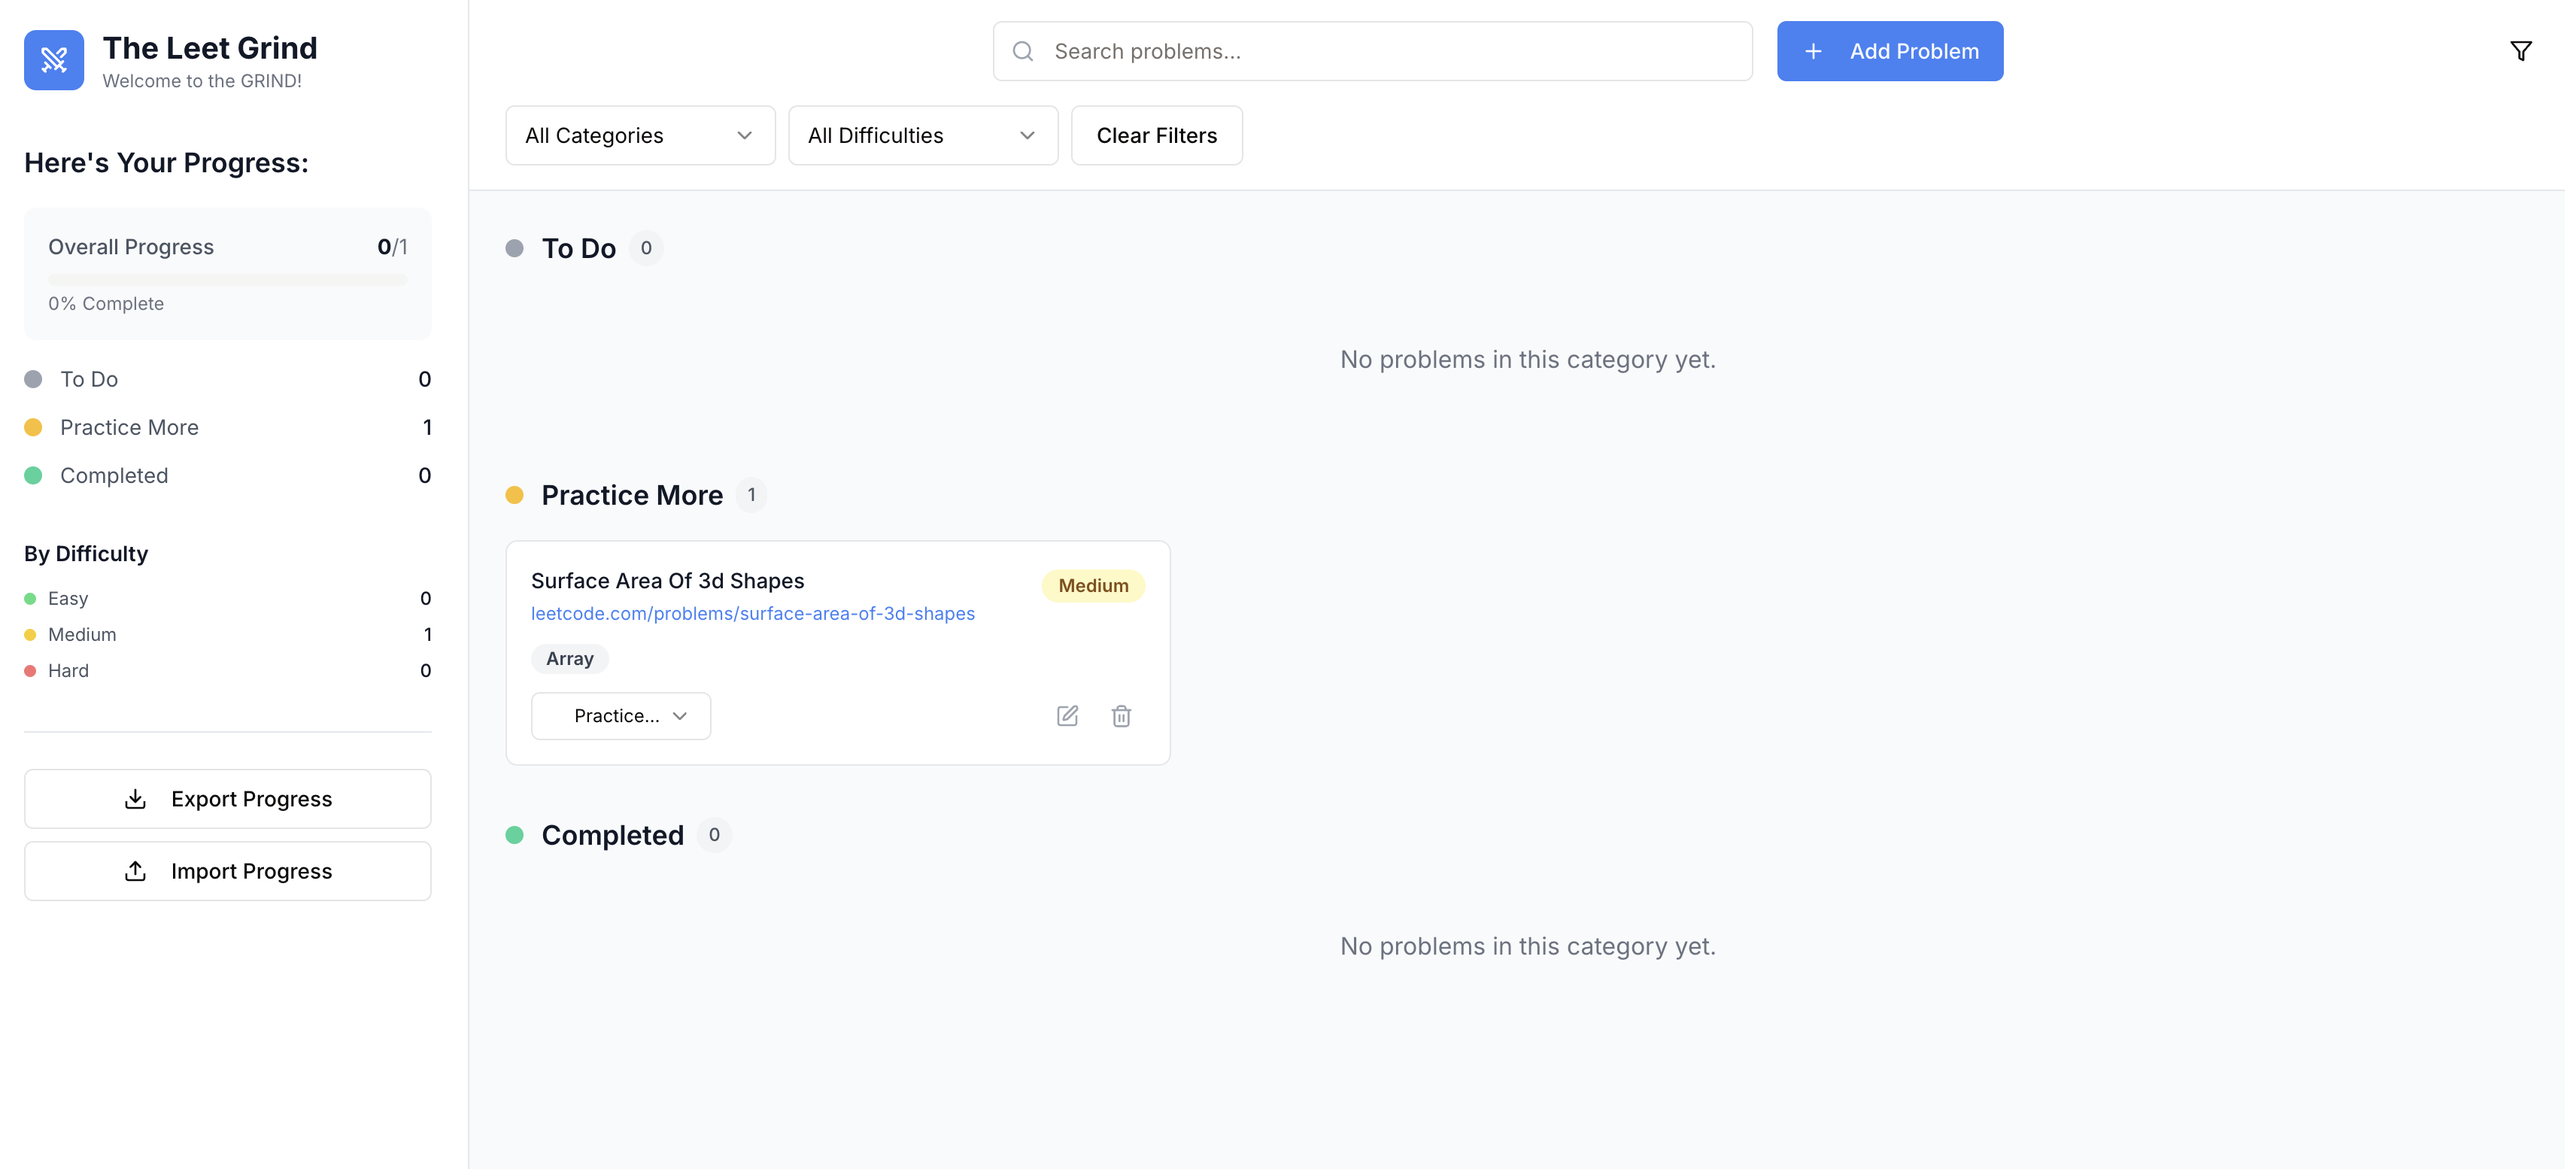
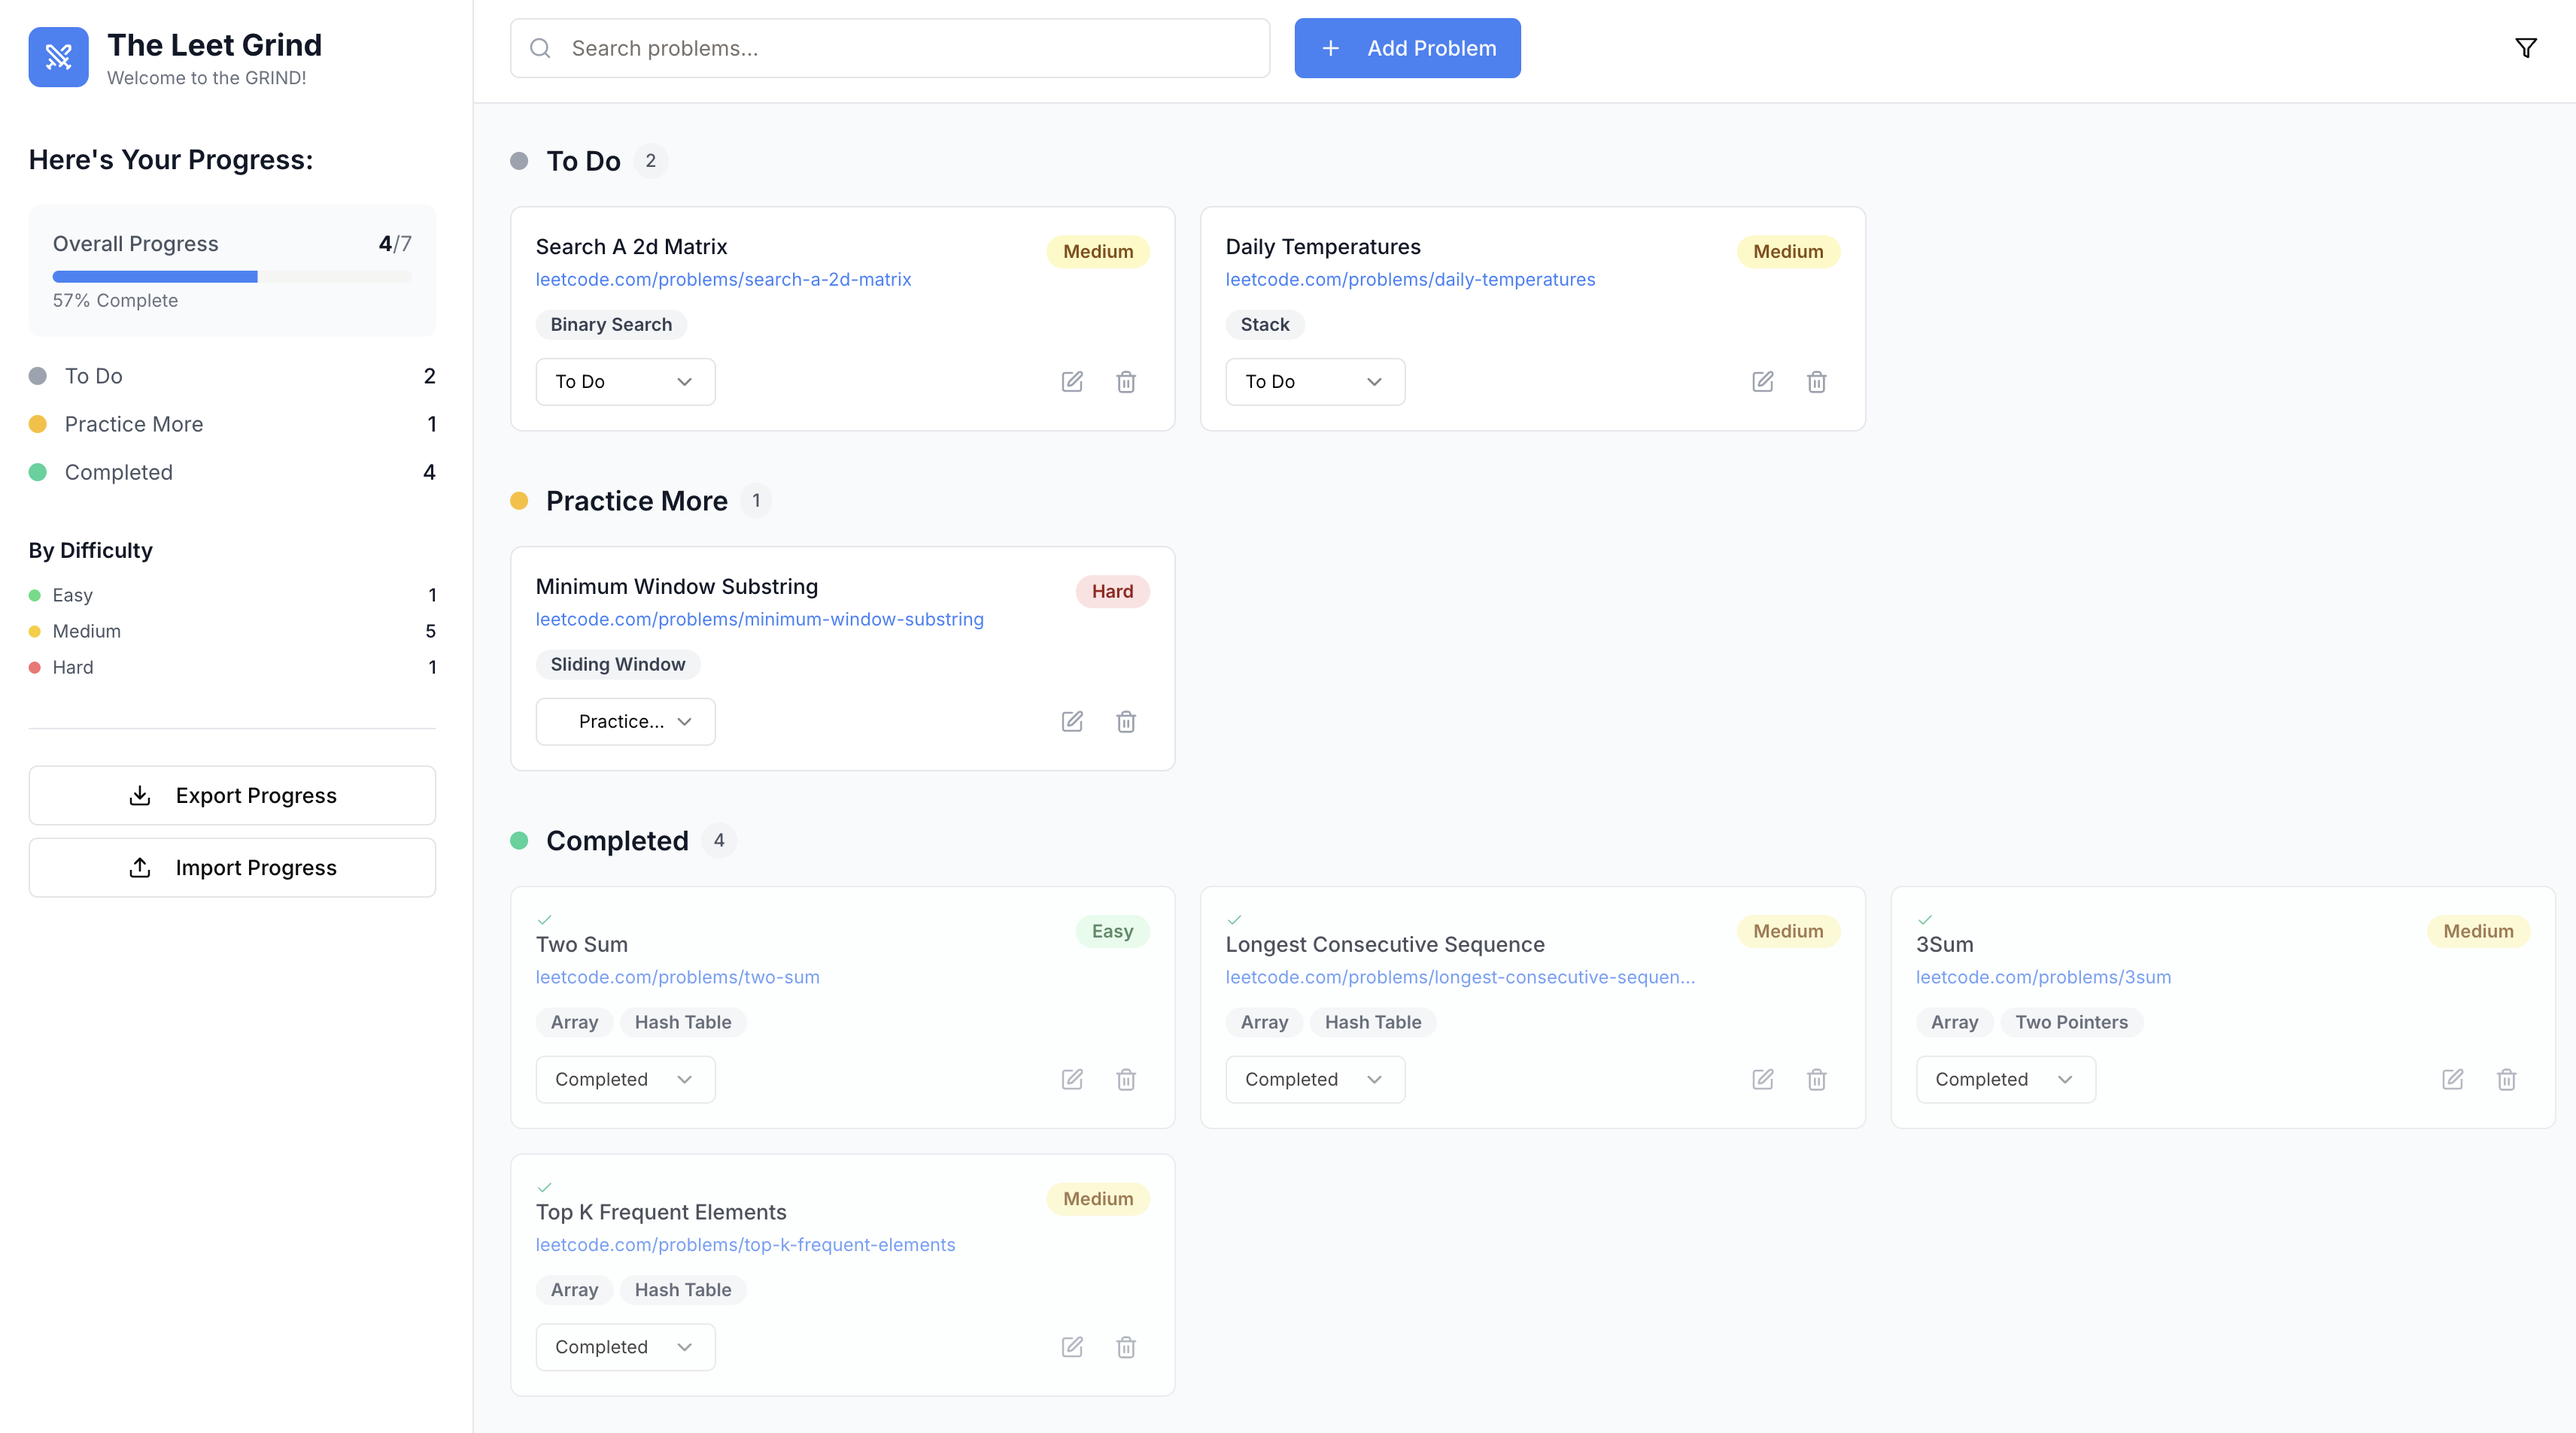
edited flex on search function. added new dashboard readme picture.

diff --git a/client/src/pages/dashboard.tsx b/client/src/pages/dashboard.tsx
@@ -216,7 +216,7 @@ export default function Dashboard() {
             </Button>
 
             {/* Search and Add Problem */}
-            <div className="flex items-center space-x-4 flex-1 max-w-2xl mx-auto">
+            <div className="flex justify-between items-center space-x-4 flex-1 max-w-2xl">
               {/* Search */}
               <div className="flex-1 relative">
                 <div className="absolute inset-y-0 left-0 pl-3 flex items-center pointer-events-none">
